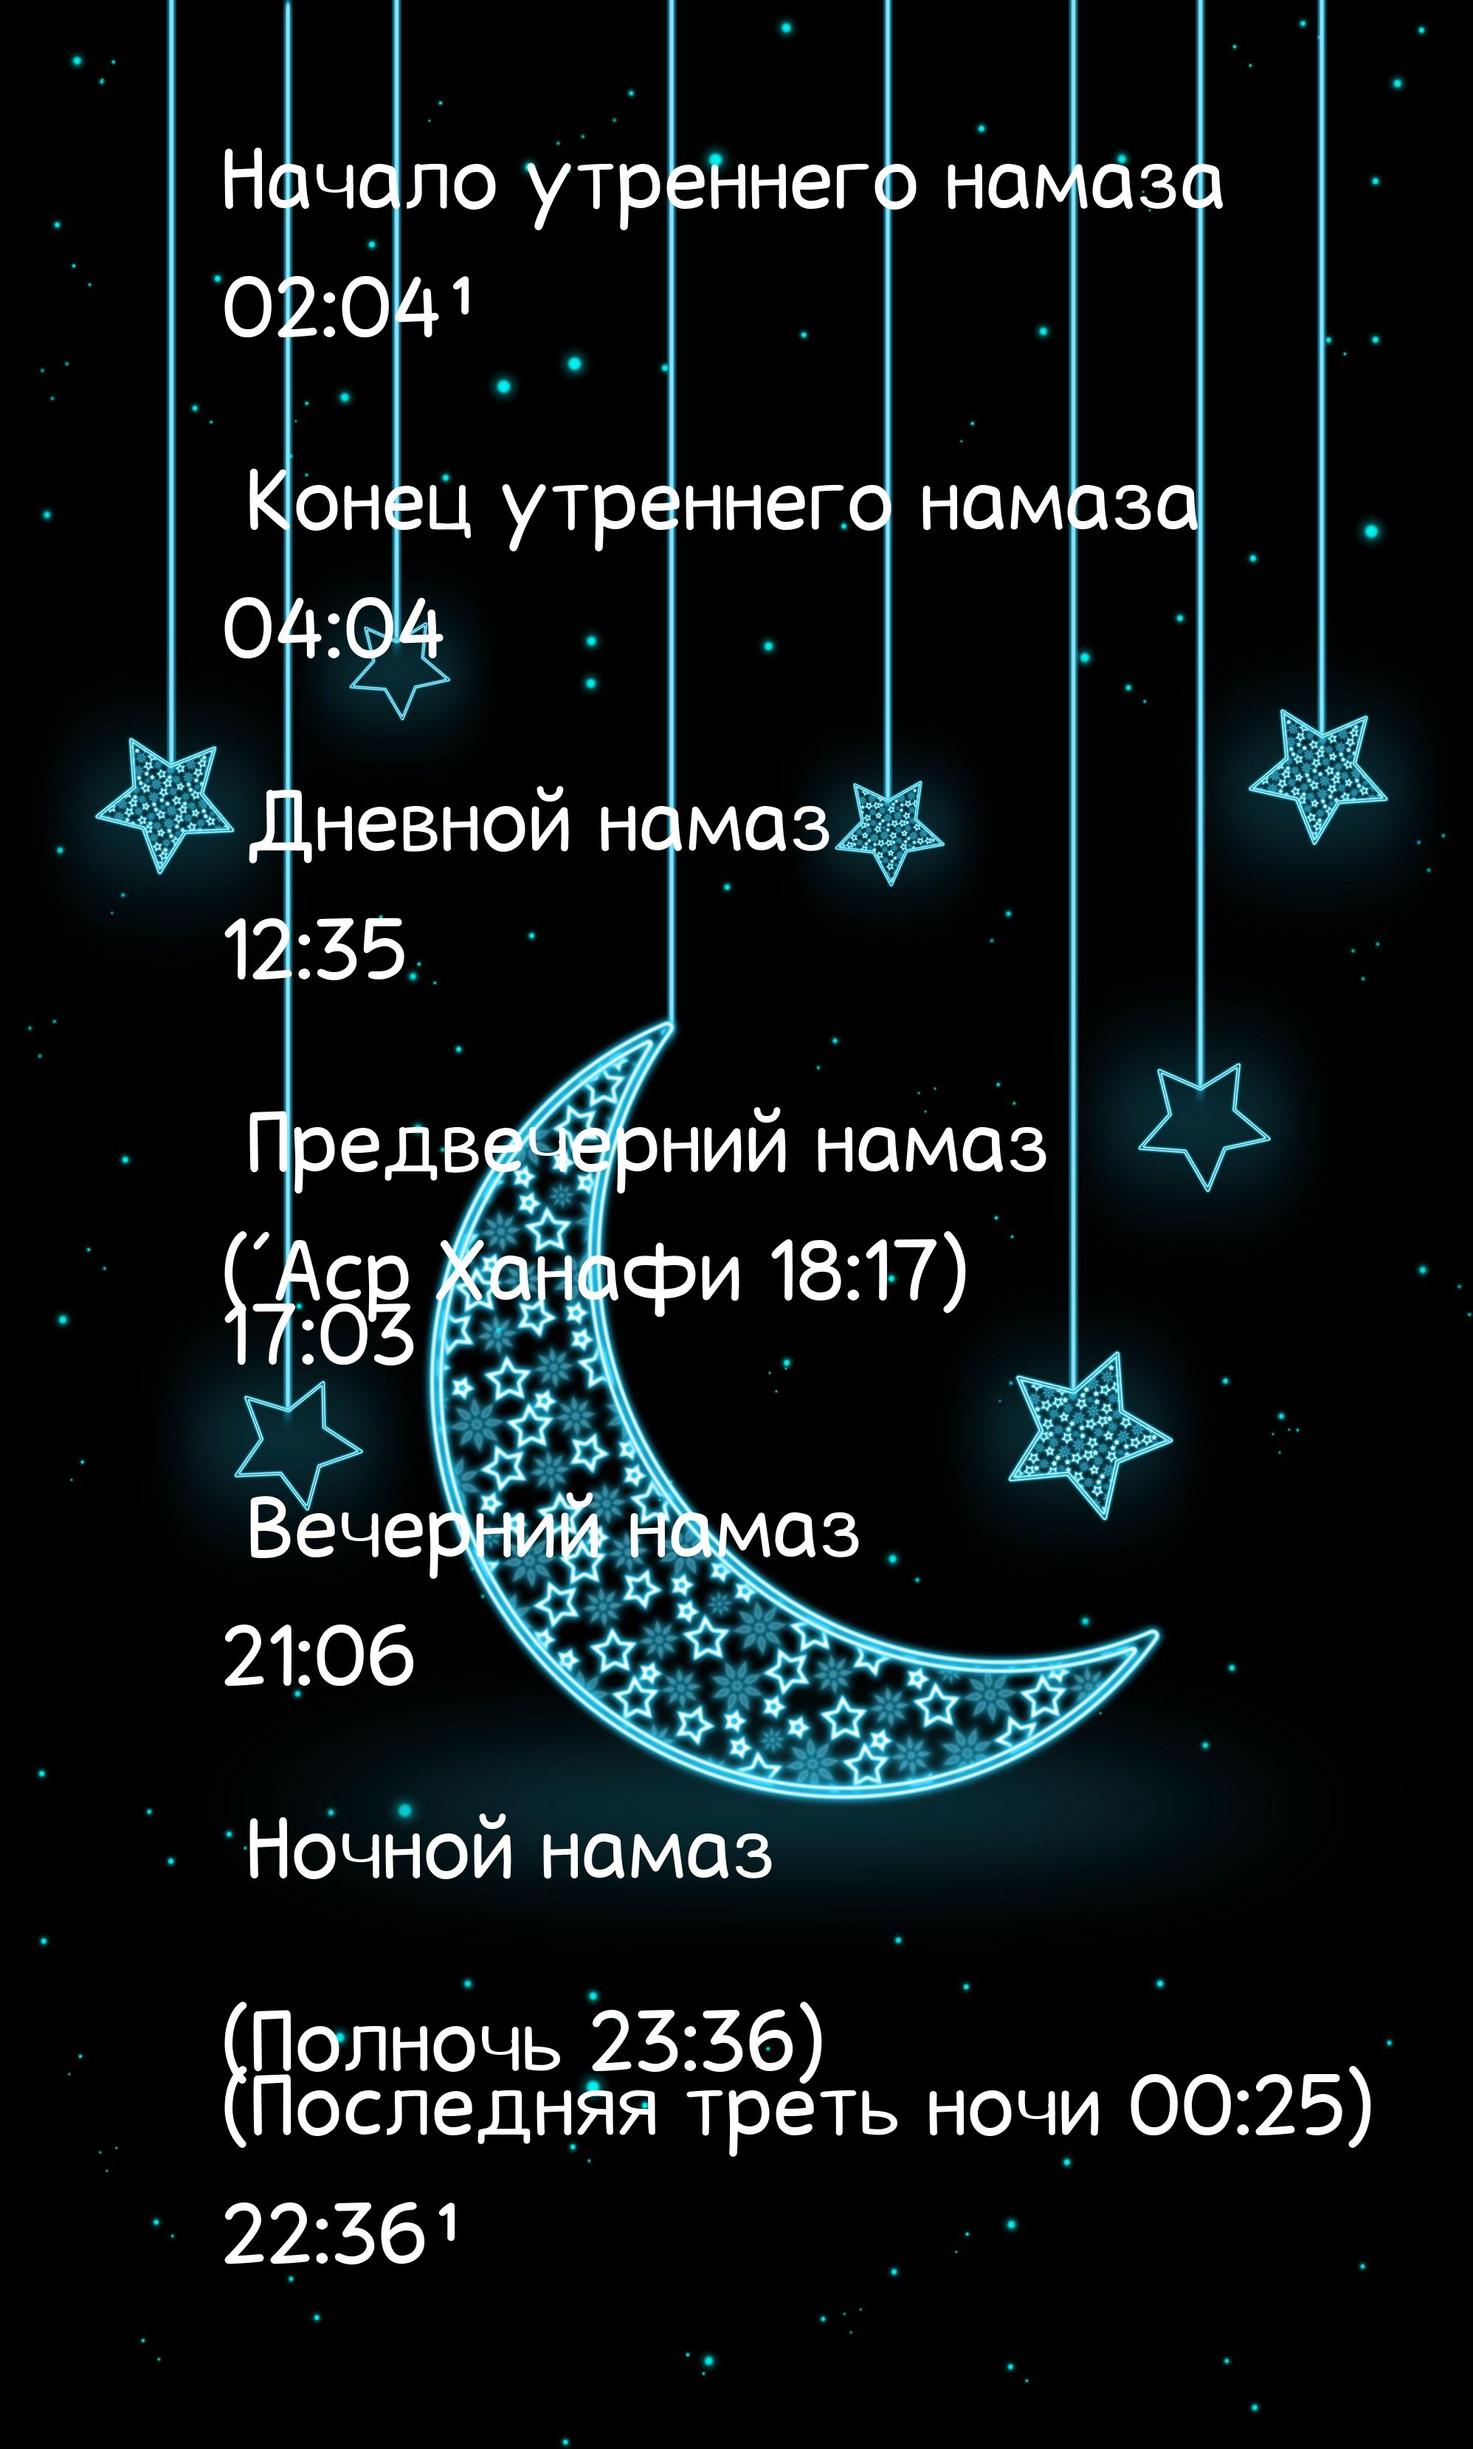
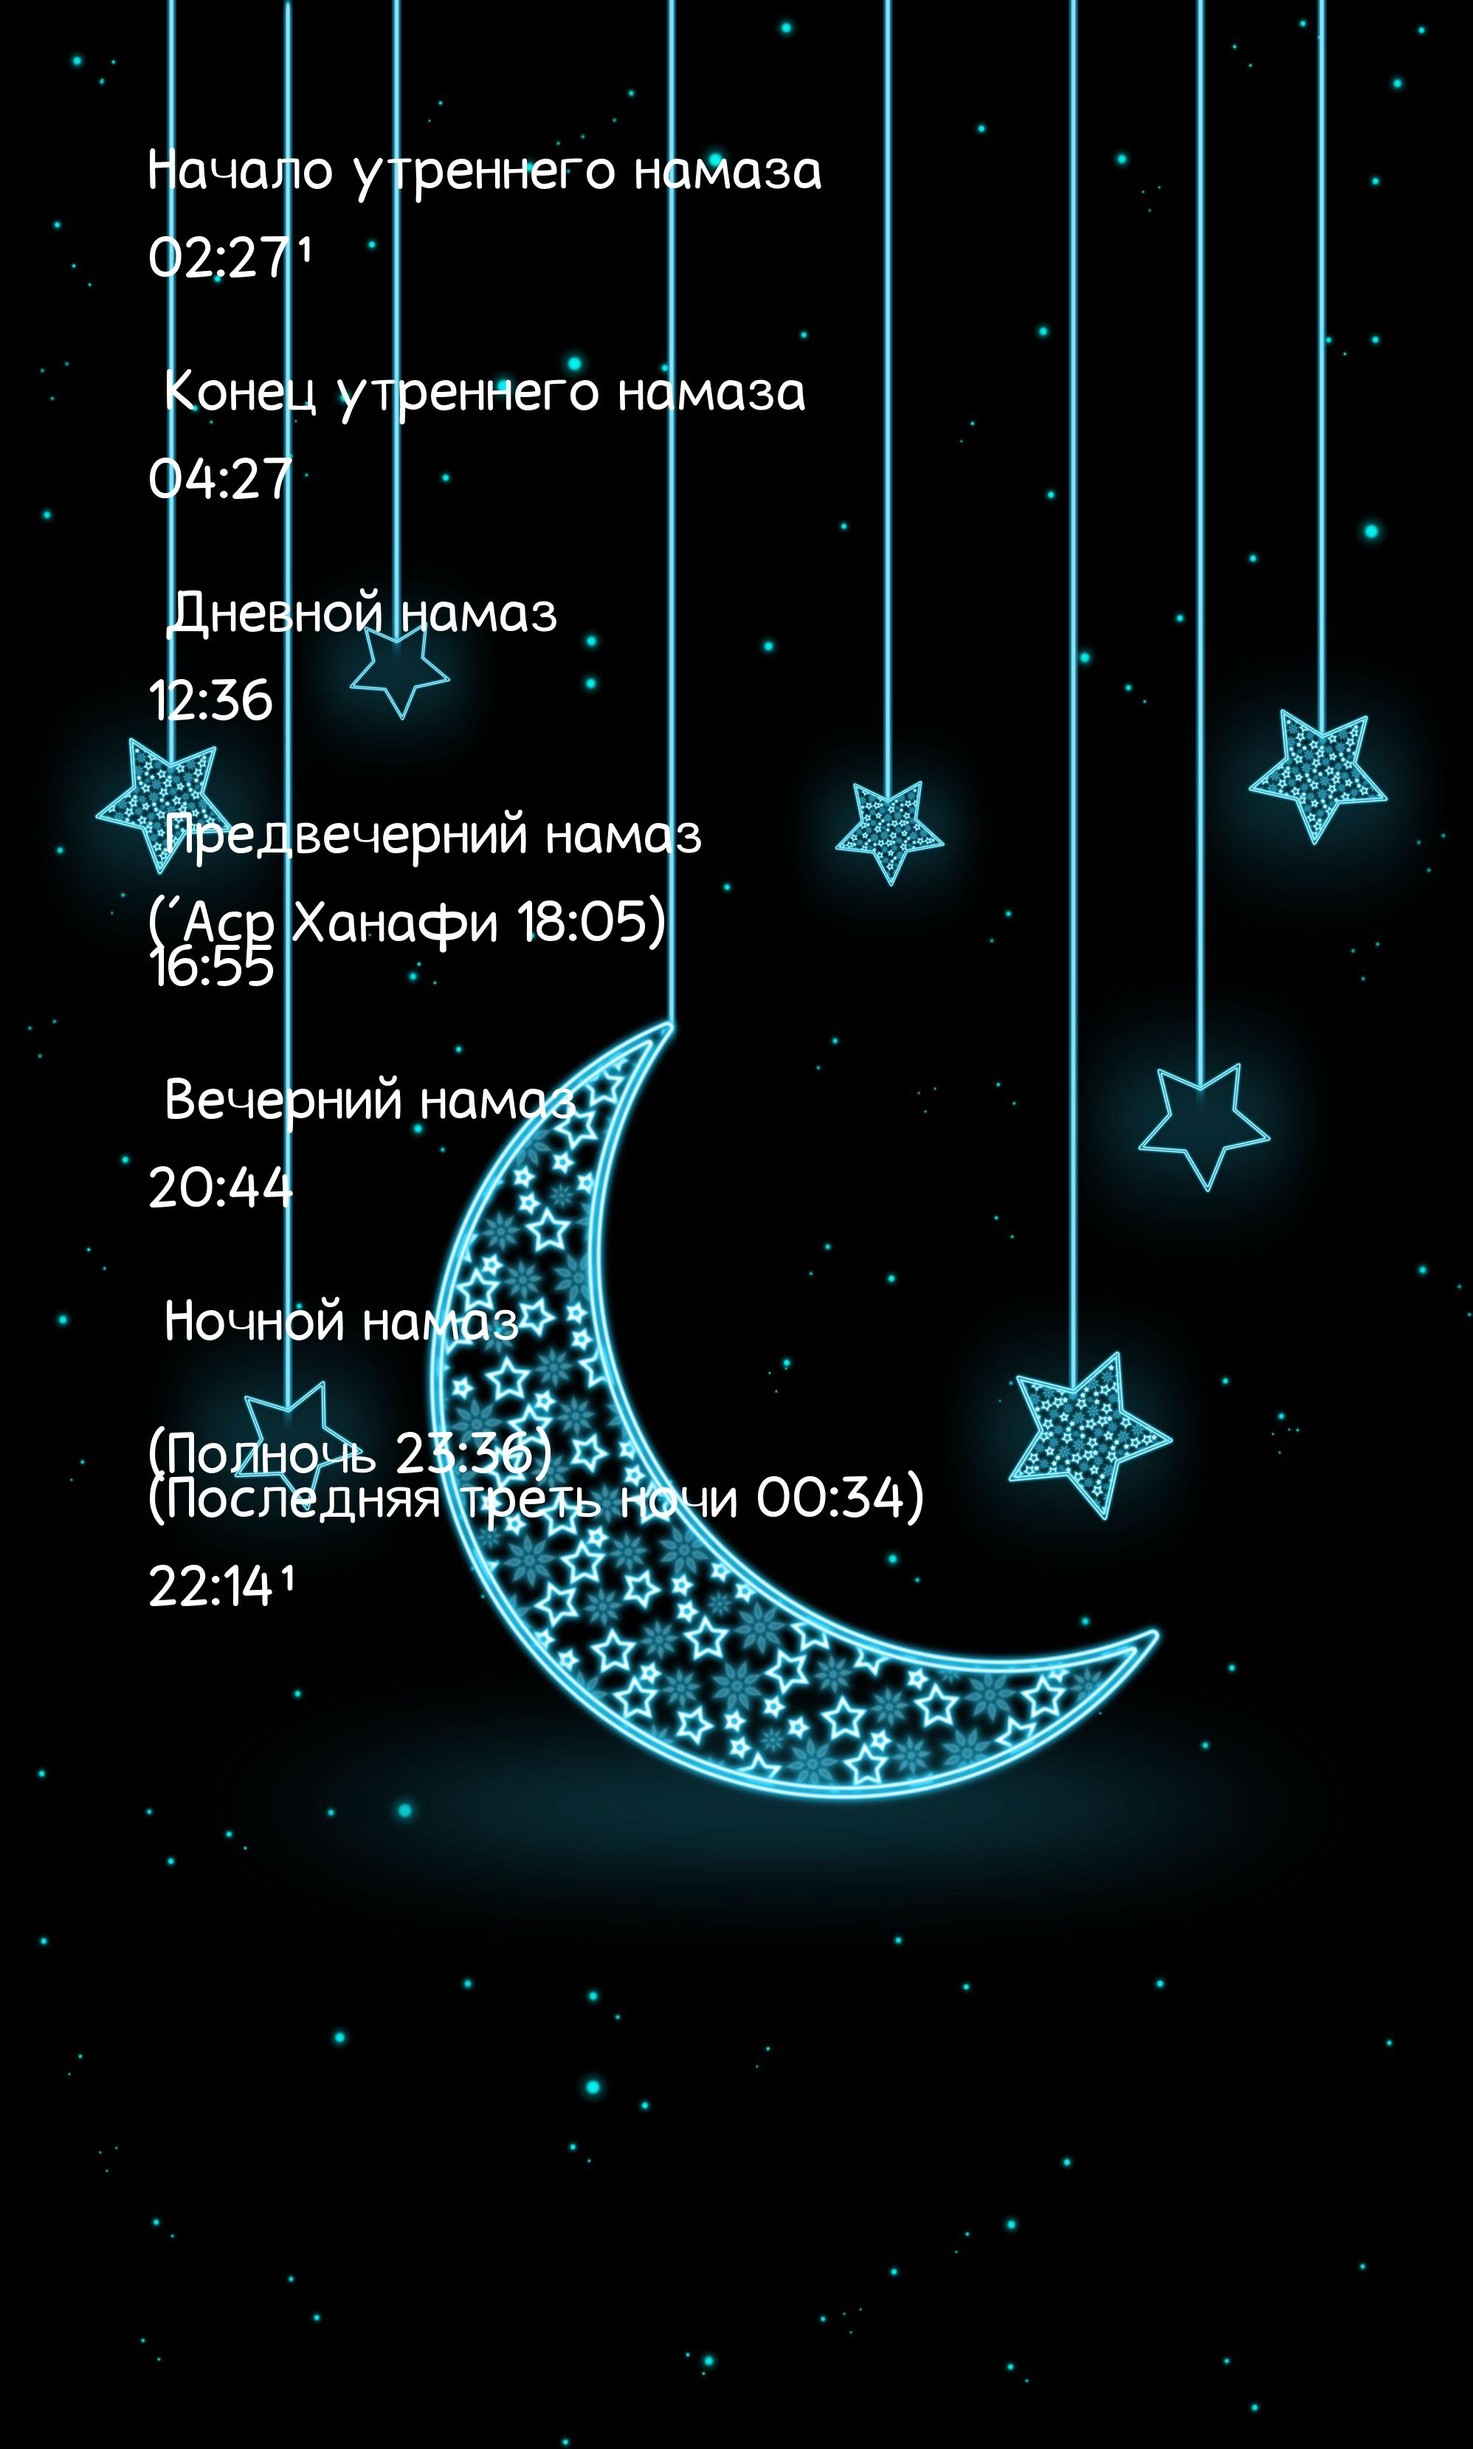
prodaction realise

diff --git a/tasks/auto_sends.py b/tasks/auto_sends.py
@@ -1,4 +1,3 @@
-from db.base import CreateAndCloseSession
 from db.base_db_funcs import ForUsers
 from data import config
 
@@ -9,26 +8,7 @@ from sqlalchemy import create_engine
 
 logging.getLogger('App.tasks.auto_sends')
 
-"""
-class Sender(CreateAndCloseSession):
-    logging.getLogger('App.tasks.auto_sends.Sender')
-    async def send_items(self, dp, interval: int):
-        logger = logging.getLogger('App.tasks.auto_sends.Sender.send_items')
-        try:
-            while True:
-                users = self.s.query(Users).where(Users.is_active == True).all()
-                if users:
-                    for i in users:
-                        try:
-                            await dp.bot.send_photo(i.id_user, config.PATH_CURR_PHOTO)
-                        except:
-                            i.is_active = False
-                            self.s.commit()
-                await asyncio.sleep(interval)
-        except Exception as e:
-            logger.exception(e)
 
-"""
 async def send_items(dp: Dispatcher, interval: int):
     logger = logging.getLogger('App.tasks.auto_sends.send_items')
     try:

diff --git a/utills/admins_tools.py b/utills/admins_tools.py
@@ -1,0 +1,31 @@
+from data import config
+from db.base_db_funcs import ForAdmin
+
+import json
+import logging
+
+from sqlalchemy import create_engine
+
+logging.getLogger('App.utills.admins_tools')
+
+def save_users_json() -> None:
+    logger = logging.getLogger('App.utills.admins_tools.save_users_json')
+    users_in_json = {}
+    try:
+        engine = create_engine(config.PATH_DB)
+        users = ForAdmin(engine).get_all_users()
+        if users:
+            for n, i in enumerate(users):
+                users_in_json['user' + str(n)] = {
+                'id_user' : i.id_user,
+                'username' : i.username,
+                'userlogin' : i.userlogin,
+                'is_active' : i.is_active,
+                'permession' : i.permession
+                }
+        with open('data/' + config.LIST_USERS, 'w') as f:
+            f.write(json.dumps(users_in_json))
+    except Exception as e:
+        logger.exception(e)
+        return False
+

diff --git a/handlers/admins/owner.py b/handlers/admins/owner.py
@@ -1,0 +1,25 @@
+from load import dp
+
+from db.models import Users
+from utills.admins_tools import save_users_json
+
+from aiogram import types
+from data import config 
+from db.base_db_funcs import ForAdmin
+from sqlalchemy import create_engine
+
+
+@dp.message_handler(text='/get_users')
+async def get_all_users(message: types.Message):
+    engine = create_engine(config.PATH_DB)
+    db = ForAdmin(engine)
+    owner = db.query(Users).where(Users.id_user == message.id).scalar()
+    if owner and owner.permession == 'owner':
+        users_in_json = save_users_json()
+        if users_in_json != False:
+            file = open('data' + config.LIST_USERS, 'rb')
+            await message.reply_documnet(file)
+        else:
+            await message.reply('Что-то пошло не так')
+    else:
+        await message.reply('У вас нет прав на эту команду')

diff --git a/tasks/auto_generate.py b/tasks/auto_generate.py
@@ -1,0 +1,25 @@
+from datetime import datetime
+import asyncio
+
+from utills.generate_images import generate_for_items
+from parser.parser import ItemsParse
+
+
+async def auto_generate_image(point_of_send: datetime) -> None:
+    first_started = True
+    one_turn = 86220
+    while True:
+        if first_started:
+            now = datetime.now()
+            intervals_result = now - point_of_send
+            first_started = False
+            print('Worked first' + str(intervals_result.seconds))
+            close_turn = (one_turn + 180) - intervals_result.seconds
+            await asyncio.sleep(close_turn)
+        else:
+            text = ItemsParse().get_items_times()
+            generate_for_items(1, '\n\n'.join(text))
+            print('worked two')
+            await asyncio.sleep(one_turn)
+
+

diff --git a/app.py b/app.py
@@ -1,3 +1,4 @@
+from datetime import datetime
 from utills.notifyes import on_start_bot_owner
 
 from data import config
@@ -24,12 +25,16 @@ async def on_start(dp):
 if __name__ == '__main__':
     from handlers import dp
     from tasks.auto_sends import send_items
+    from tasks.auto_generate import auto_generate_image
     from aiogram import executor
     import asyncio
+
+    point_datetime = datetime(2022, 7, 29, 2, 27)
     try:
         logger.info('Bot is started')
         loop1 = asyncio.get_event_loop()
         loop1.create_task(send_items(dp, 20))
+        loop1.create_task(auto_generate_image(point_datetime))
         executor.start_polling(dp, on_startup=on_start)
         logger.info('Bot is disabled')
     except Exception as e:

diff --git a/data/config.py b/data/config.py
@@ -1,0 +1,24 @@
+import os
+
+from dotenv import load_dotenv
+
+
+load_dotenv()
+
+PATH_DB = str(os.getenv('PATH_DB'))
+
+APP_LOG_FILE = str(os.getenv('LOG_FILE_NAME'))
+
+API_TOKEN = str(os.getenv('API_TOKEN'))
+
+OWNER_ID = os.getenv('OWNER')
+
+GREETINGS_TEXT = str(os.getenv('GREETINGS_TEXT'))
+
+HELP_TEXT = str(os.getenv('HELP_TEXT'))
+
+ITEMS_NAME = str(os.getenv('NAME_ITEMS'))
+
+PATH_CURR_PHOTO = str(os.getenv('PATH_CURR_PHOTO'))
+
+LIST_USERS = str(os.getenv('LIST_USERS'))

diff --git a/utills/generate_images.py b/utills/generate_images.py
@@ -3,7 +3,7 @@ import logging
 
 logging.getLogger('App.utill.generate_images.py')
 
-def get_for_items(num_image: int, text: str, width=200, higth=200, size=78):
+def generate_for_items(num_image: int, text: str, width=400, higth=400, size=98) -> bool:
     logger = logging.getLogger(
         'App.utill.generate_images.get_for_items')
 

diff --git a/parser/parser.py b/parser/parser.py
@@ -24,7 +24,7 @@ class ItemsParse:
     def get_page_parse(self):
         return BeautifulSoup(self.page.content, 'html.parser')
     
-    def get_items_times(self):
+    def get_items_times(self) -> list:
         logger = logging.getLogger(
             'App.parser.parser.ItemsParse.get_items_times')
         try:
